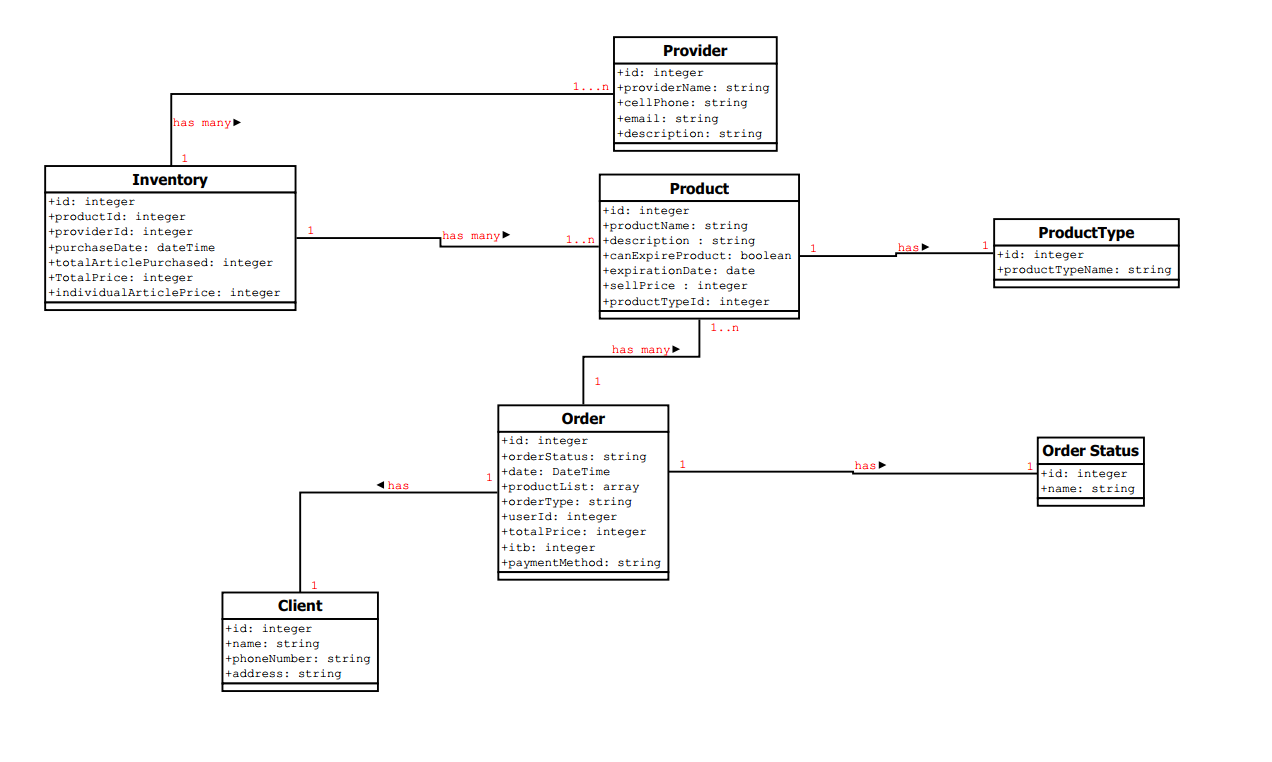
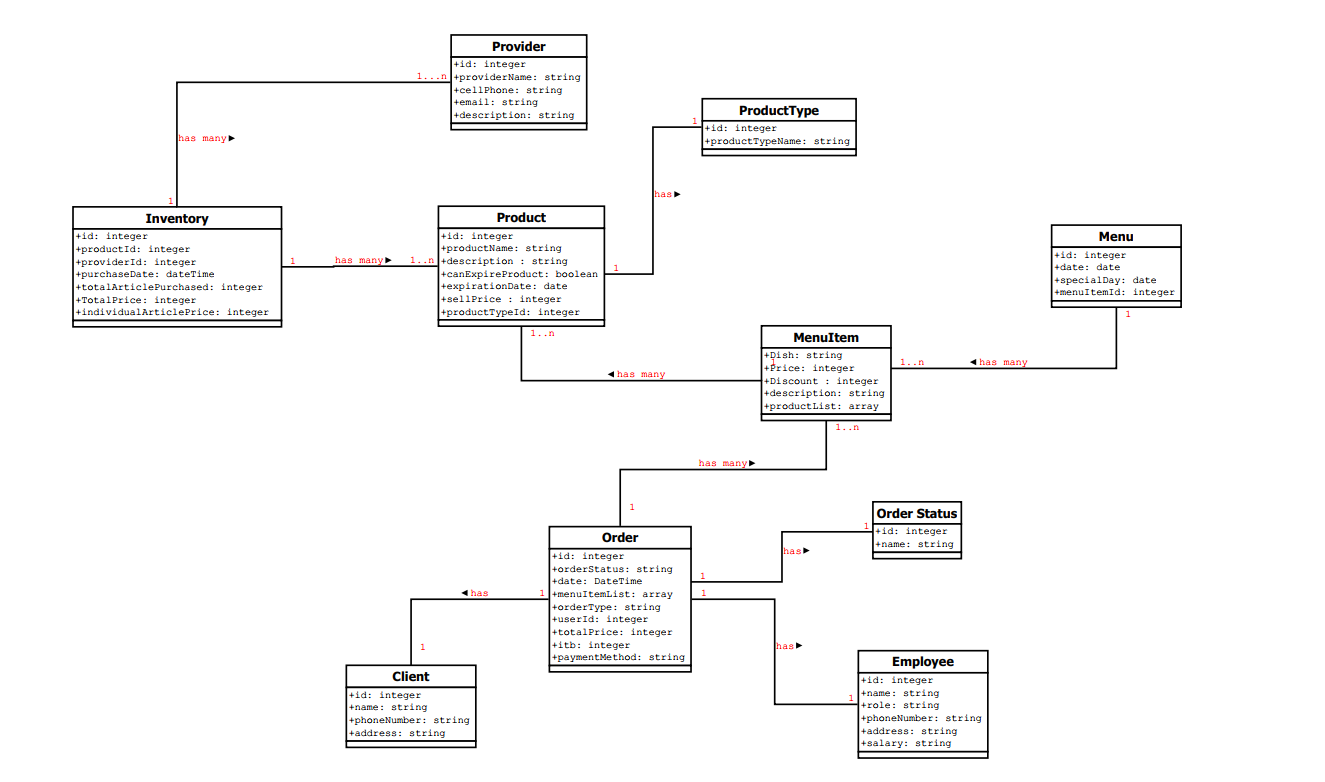
creating employee entity

diff --git a/src/entities/employee.entity.js b/src/entities/employee.entity.js
@@ -1,0 +1,8 @@
+export default class Employee {
+  id;
+  name;
+  role;
+  phoneNumber;
+  address;
+  salary;
+}
